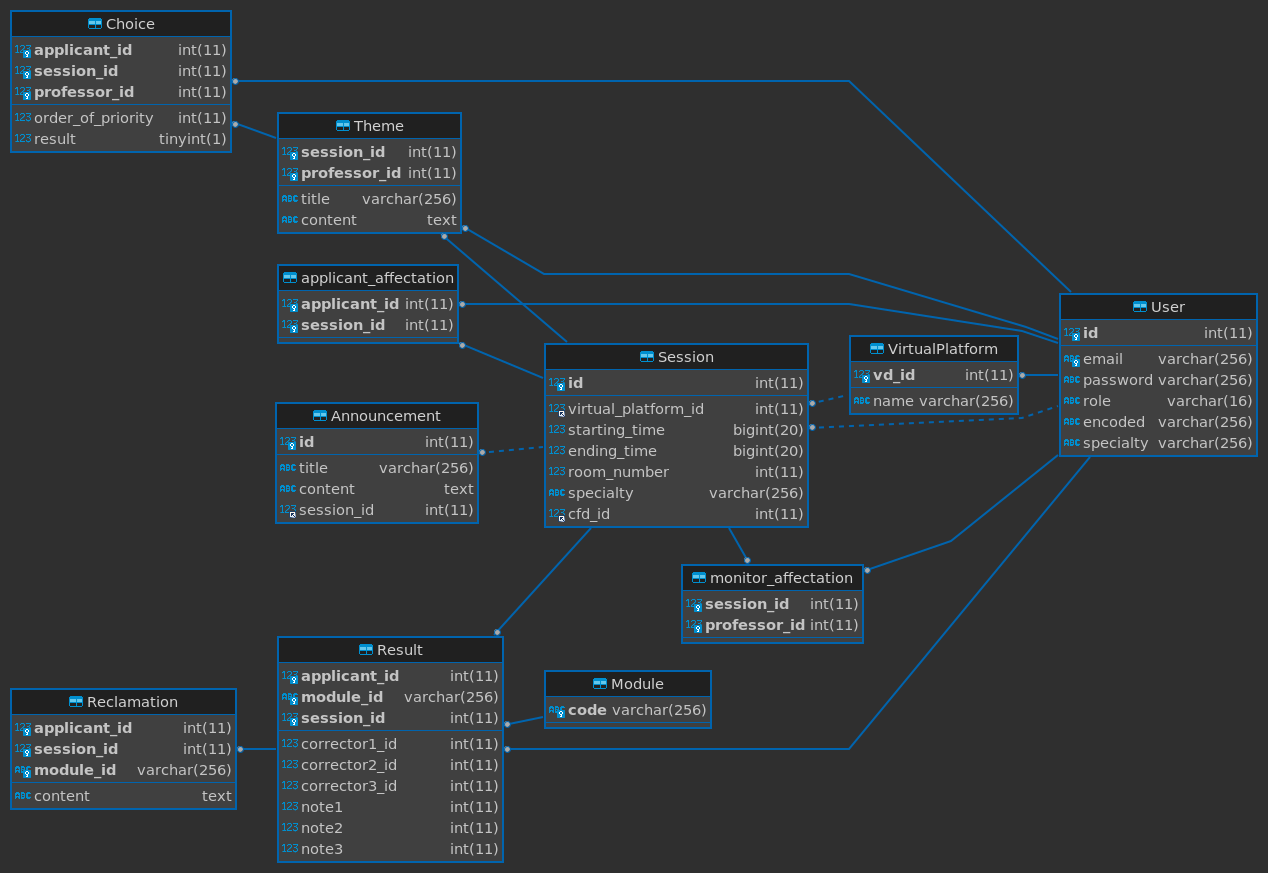
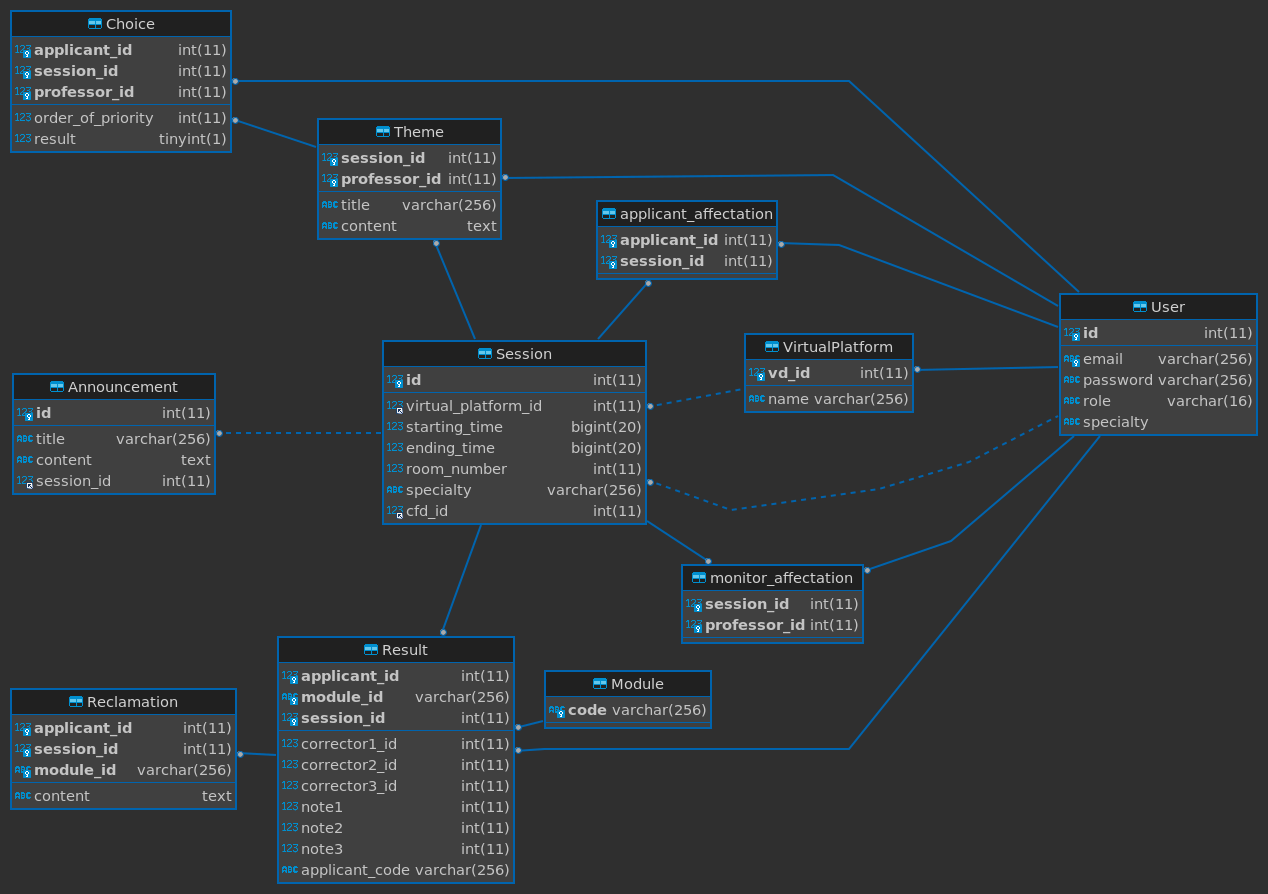
Readme Updated

diff --git a/Readme.md b/Readme.md
@@ -41,3 +41,17 @@ check https://www.rust-lang.org/tools and select your favorite editor and follow
   cargo test # runs the unit tests
   cargo run # runs the project
 ```
+
+## Database 
+
+
+<p style="color:red;" align="center">
+🚧 Work in progress 🚧
+</p>
+
+![Database](./Database.png)
+
+<p style="color:red;" align="center">
+🚧 Work in progress 🚧
+</p>
+
